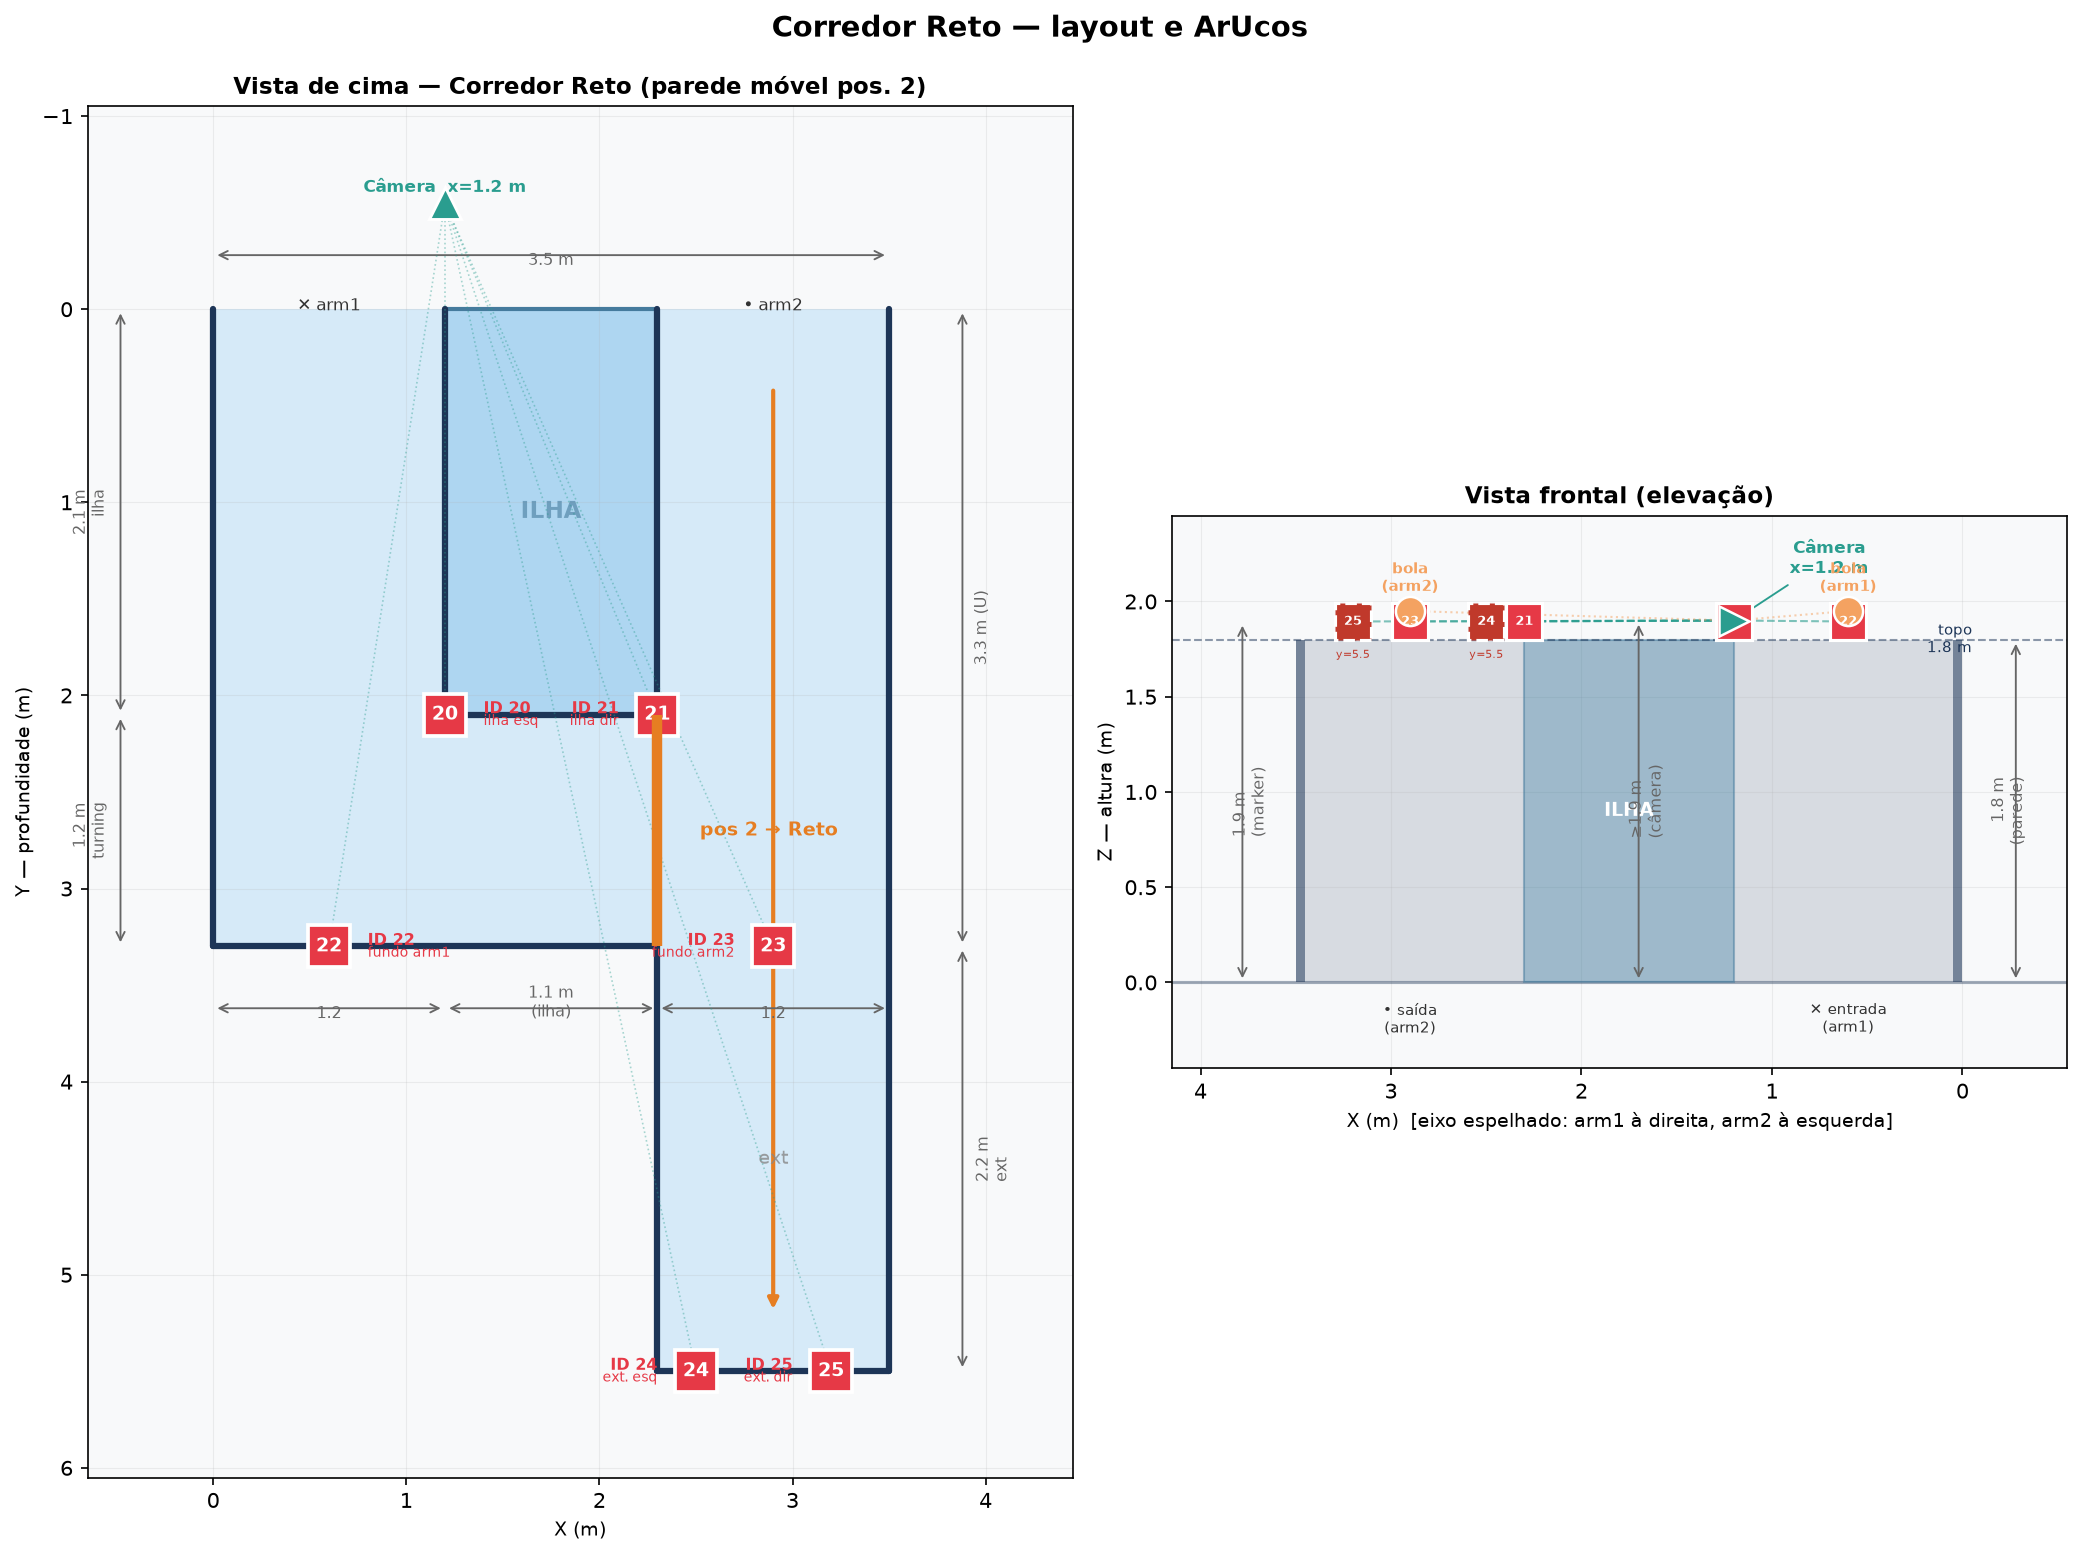
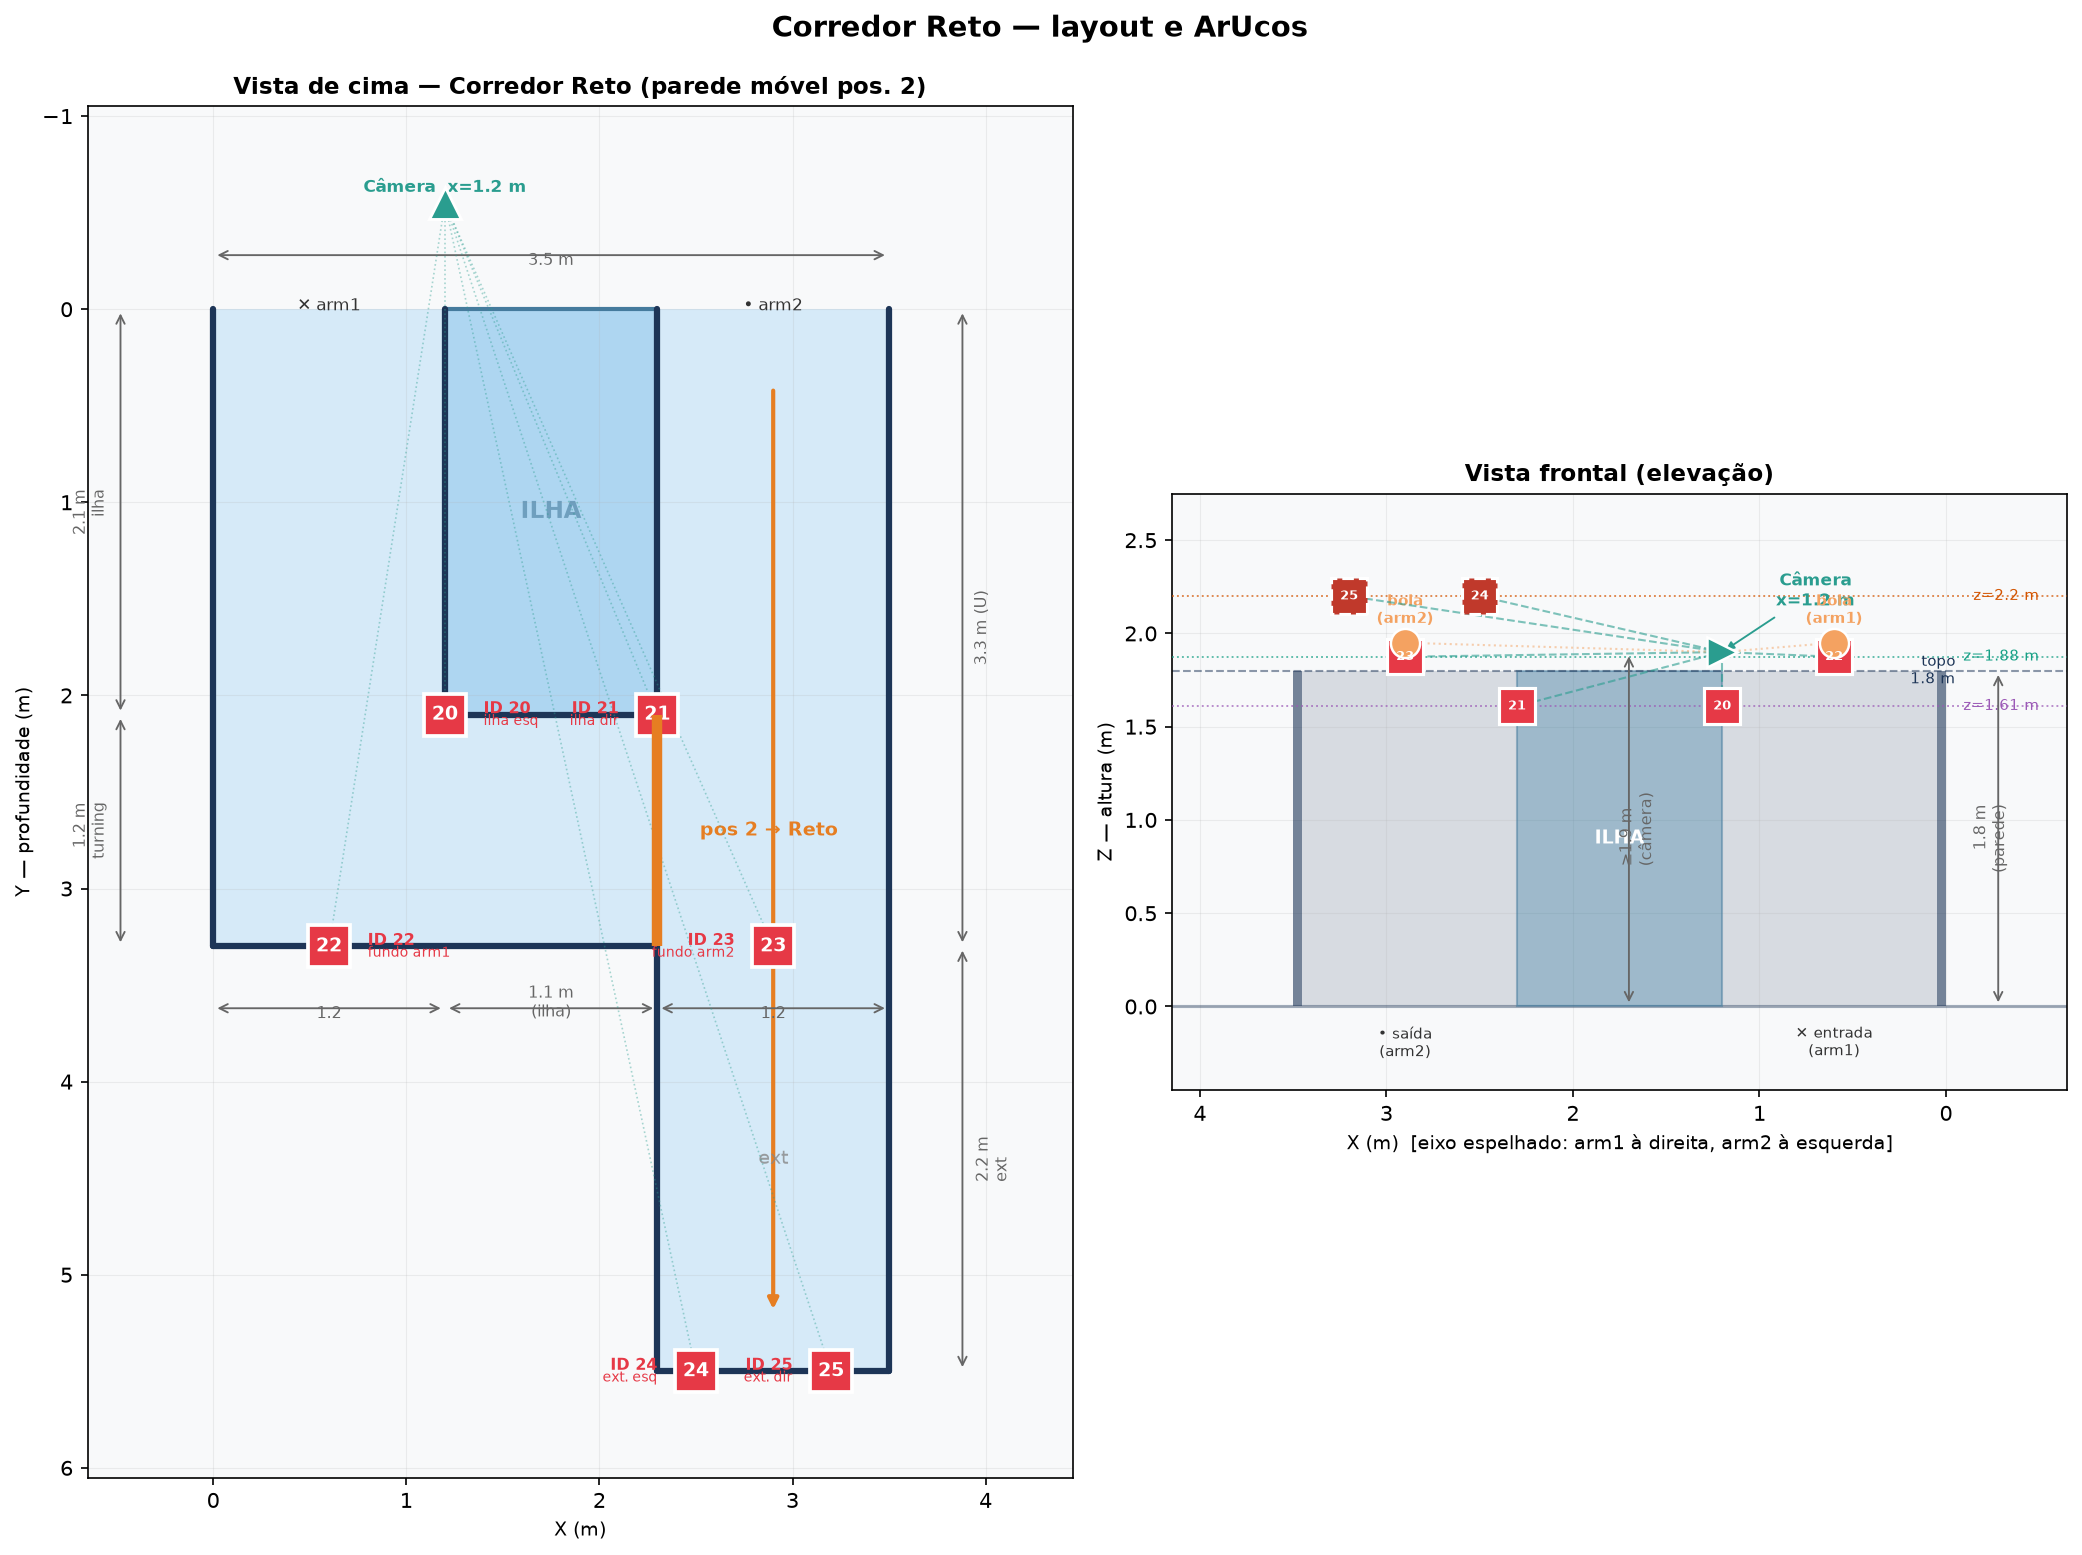
Update ArUco heights to real measured values + show 3 z-levels in elevation view
Measured heights (center of marker):
  IDs 20, 21 (island face):      z = 1.610 m
  IDs 22, 23 (back wall):        z = 1.875 m
  IDs 24, 25 (extension end):    z = 2.200 m

- corridors.yaml: update all marker z coords across U_esq, reto_esq, S_esq
- draw_side_view: colored dotted reference lines at each z level (purple/green/orange)
- set_ylim now adapts to max(cam_z, max marker z)
- Regenerate all 3 layout PNGs

diff --git a/tools/plot_corridor_layout.py b/tools/plot_corridor_layout.py
@@ -256,10 +256,11 @@ def draw_side_view(ax, c):
     W      = c["total_width_m"]
     cw     = c["corridor_width_m"]
     wh     = c["wall_height_m"]
-    mk_z   = c["markers"][0]["pos"][2]
     ms     = c.get("marker_size_m", 0.19)
     cam_x  = c.get("camera_x_m", cw/2)
     cam_z  = c.get("camera_z_min_m", 1.9)
+    # z alturas reais medidas (podem variar por marcador)
+    unique_z = sorted({m["pos"][2] for m in c["markers"]})
 
     ax.set_facecolor(BG_COLOR)
     ax.set_aspect("equal")
@@ -283,12 +284,21 @@ def draw_side_view(ax, c):
         ax.add_patch(plt.Polygon([(x0,0),(x1,0),(x1,wh),(x0,wh)],
                                  fc=WALL_COLOR, ec="none", alpha=0.15, zorder=1))
 
-    # marcadores no topo
-    # marcadores 24-25 (y=5.5, fundo da extensão) têm borda tracejada
+    # linhas de referência para cada altura real de marcador
+    z_colors = {}
+    ref_palette = ["#9b59b6", "#16a085", "#d35400"]
+    for i, uz in enumerate(unique_z):
+        col = ref_palette[i % len(ref_palette)]
+        z_colors[uz] = col
+        ax.axhline(uz, color=col, lw=0.9, linestyle=":", alpha=0.7, zorder=3)
+        ax.text(-0.50, uz, f"z={uz:.3g} m", va="center", ha="right",
+                fontsize=7, color=col)
+
+    # marcadores (quadrados no topo de cada parede)
     for m in c["markers"]:
         mx, my, mz = m["pos"]
         base = mz - ms/2
-        deep = my > 3.5   # marcadores no fundo da extensão
+        deep = my > 3.5
         fc   = MARKER_COLOR if not deep else "#c0392b"
         ls   = "-" if not deep else "--"
         ax.add_patch(plt.Rectangle((mx - ms/2, base), ms, ms,
@@ -296,9 +306,6 @@ def draw_side_view(ax, c):
                                    linestyle=ls, zorder=5))
         ax.text(mx, mz, str(m["id"]), ha="center", va="center",
                 fontsize=6, fontweight="bold", color="white", zorder=6)
-        if deep:
-            ax.text(mx, mz - ms/2 - 0.05, f"y={my:.1f}", ha="center",
-                    va="top", fontsize=5.5, color=fc, zorder=6)
 
     # câmera com seta de anotação
     ax.plot(cam_x, cam_z, marker=">", ms=14, color=CAMERA_COLOR,
@@ -332,8 +339,7 @@ def draw_side_view(ax, c):
             fontsize=7, color="#333")
 
     # cotas de altura
-    dim_v(ax, 0, wh,  -0.18, f"{wh:.1f} m\n(parede)")
-    dim_v(ax, 0, mk_z, W+0.18, f"{mk_z:.3g} m\n(marker)", left=False)
+    dim_v(ax, 0, wh,    -0.18, f"{wh:.1f} m\n(parede)")
     dim_v(ax, 0, cam_z, cam_x + 0.4, f"≥{cam_z:.2g} m\n(câmera)", left=False)
 
     # linha de referência do topo das paredes
@@ -341,8 +347,9 @@ def draw_side_view(ax, c):
     ax.text(-0.05, wh, f"topo\n{wh} m", va="center",
             fontsize=7, color=WALL_COLOR, ha="right")
 
-    ax.set_xlim(-0.55, W + 0.65)
-    ax.set_ylim(-0.45, cam_z + 0.55)
+    ax.set_xlim(-0.65, W + 0.65)
+    max_z = max(cam_z, max(unique_z))
+    ax.set_ylim(-0.45, max_z + 0.55)
     ax.invert_xaxis()
     ax.set_title("Vista frontal (elevação)", fontsize=11, fontweight="bold")
     ax.set_xlabel("X (m)  [eixo espelhado: arm1 à direita, arm2 à esquerda]", fontsize=9)